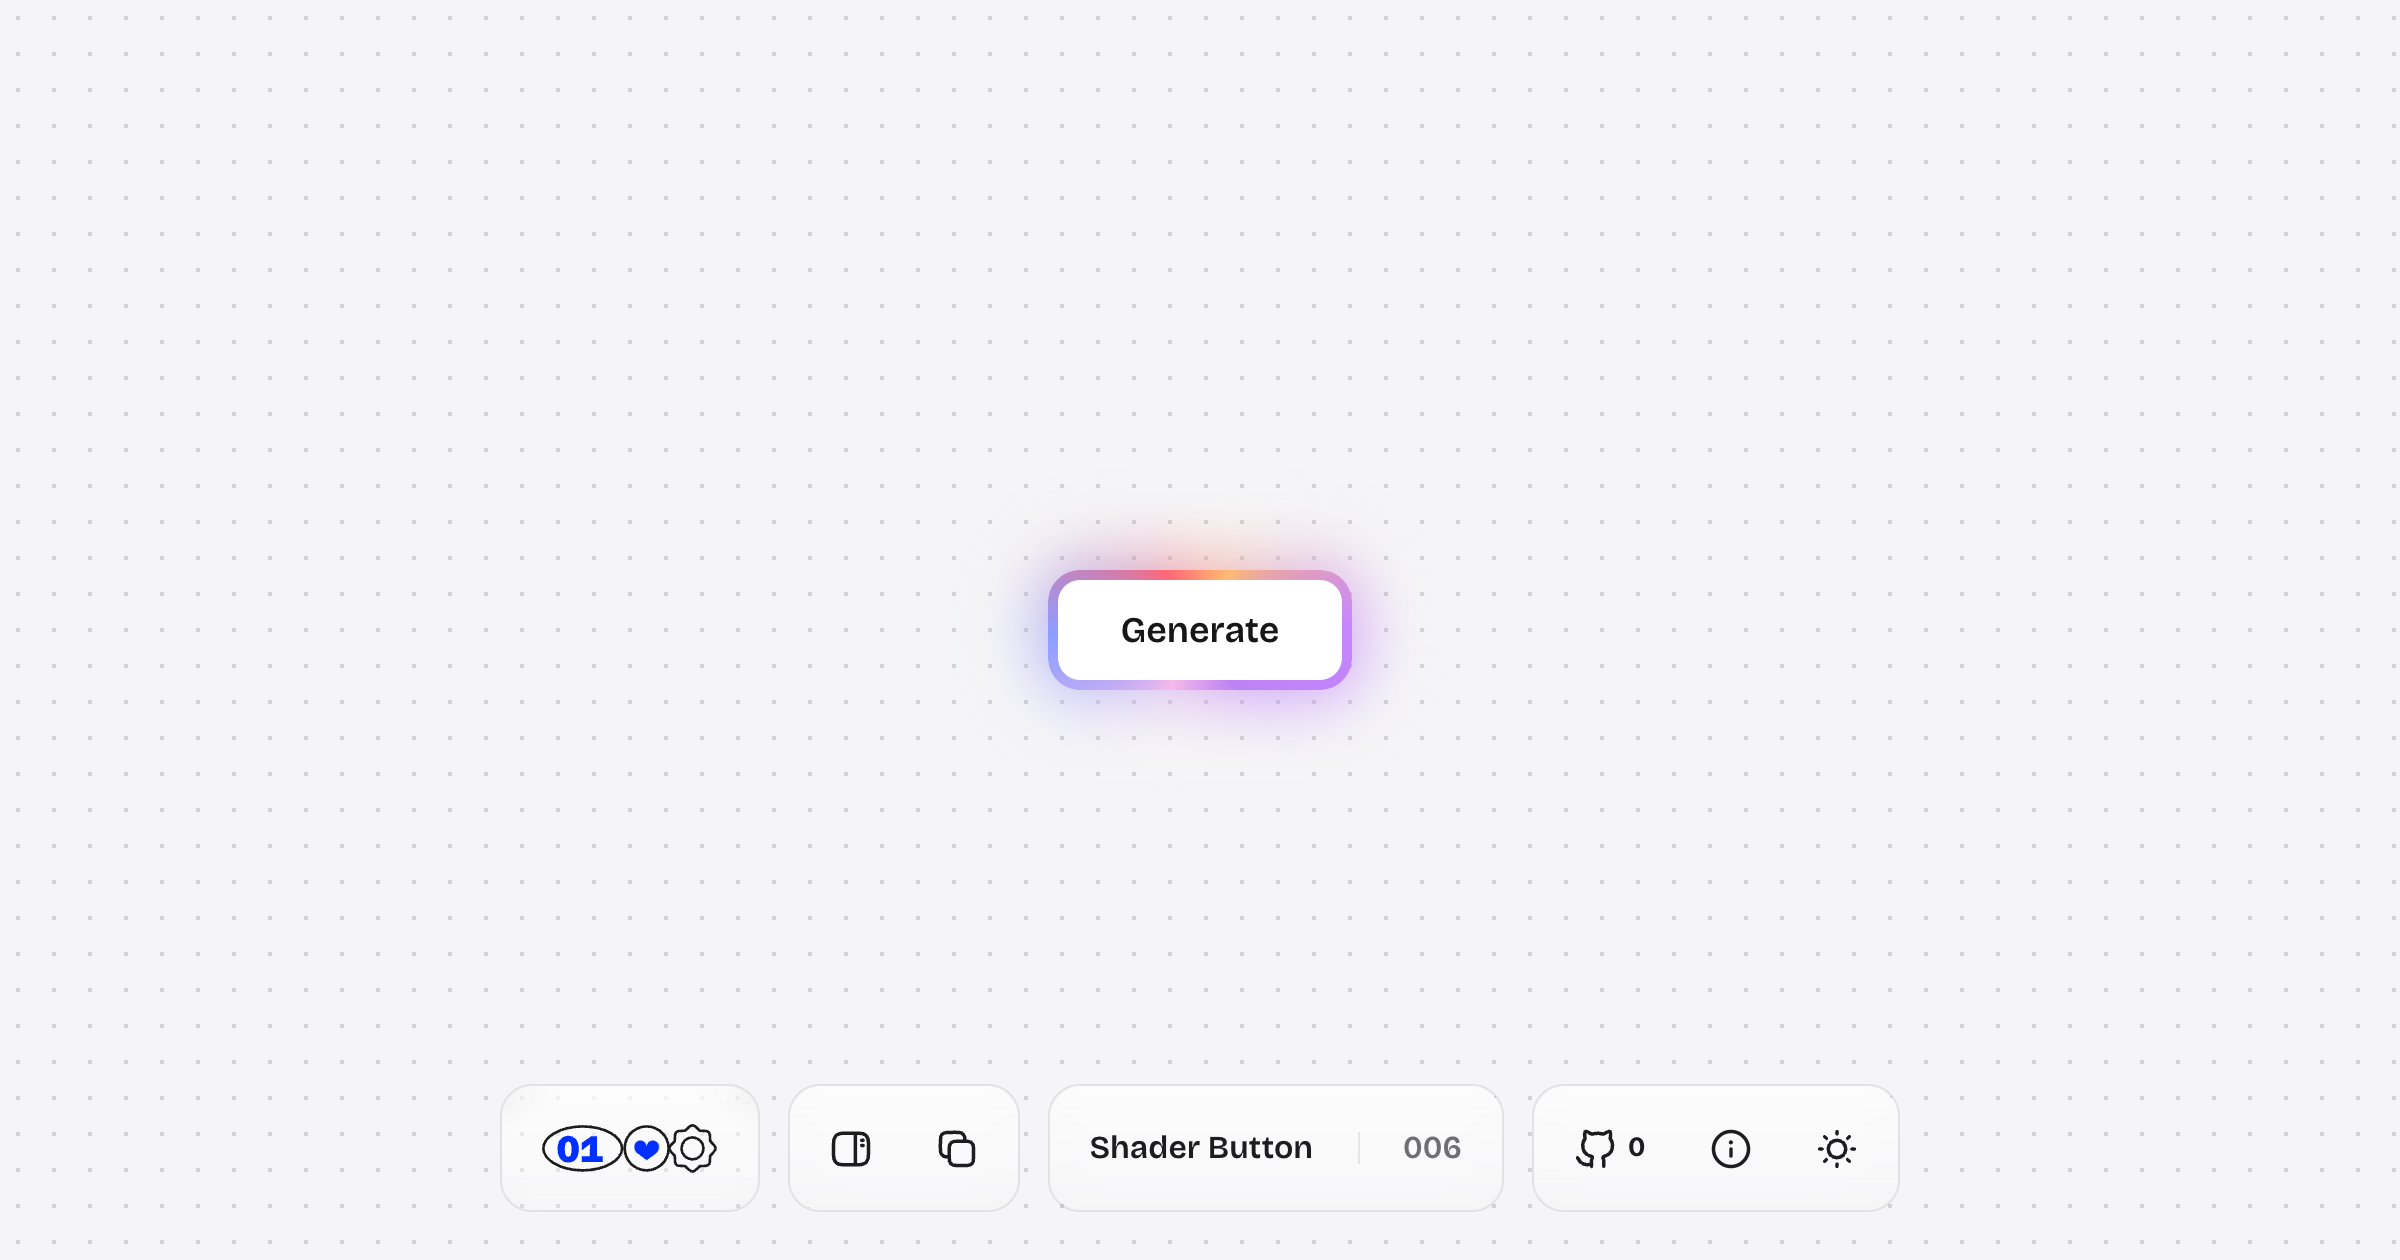
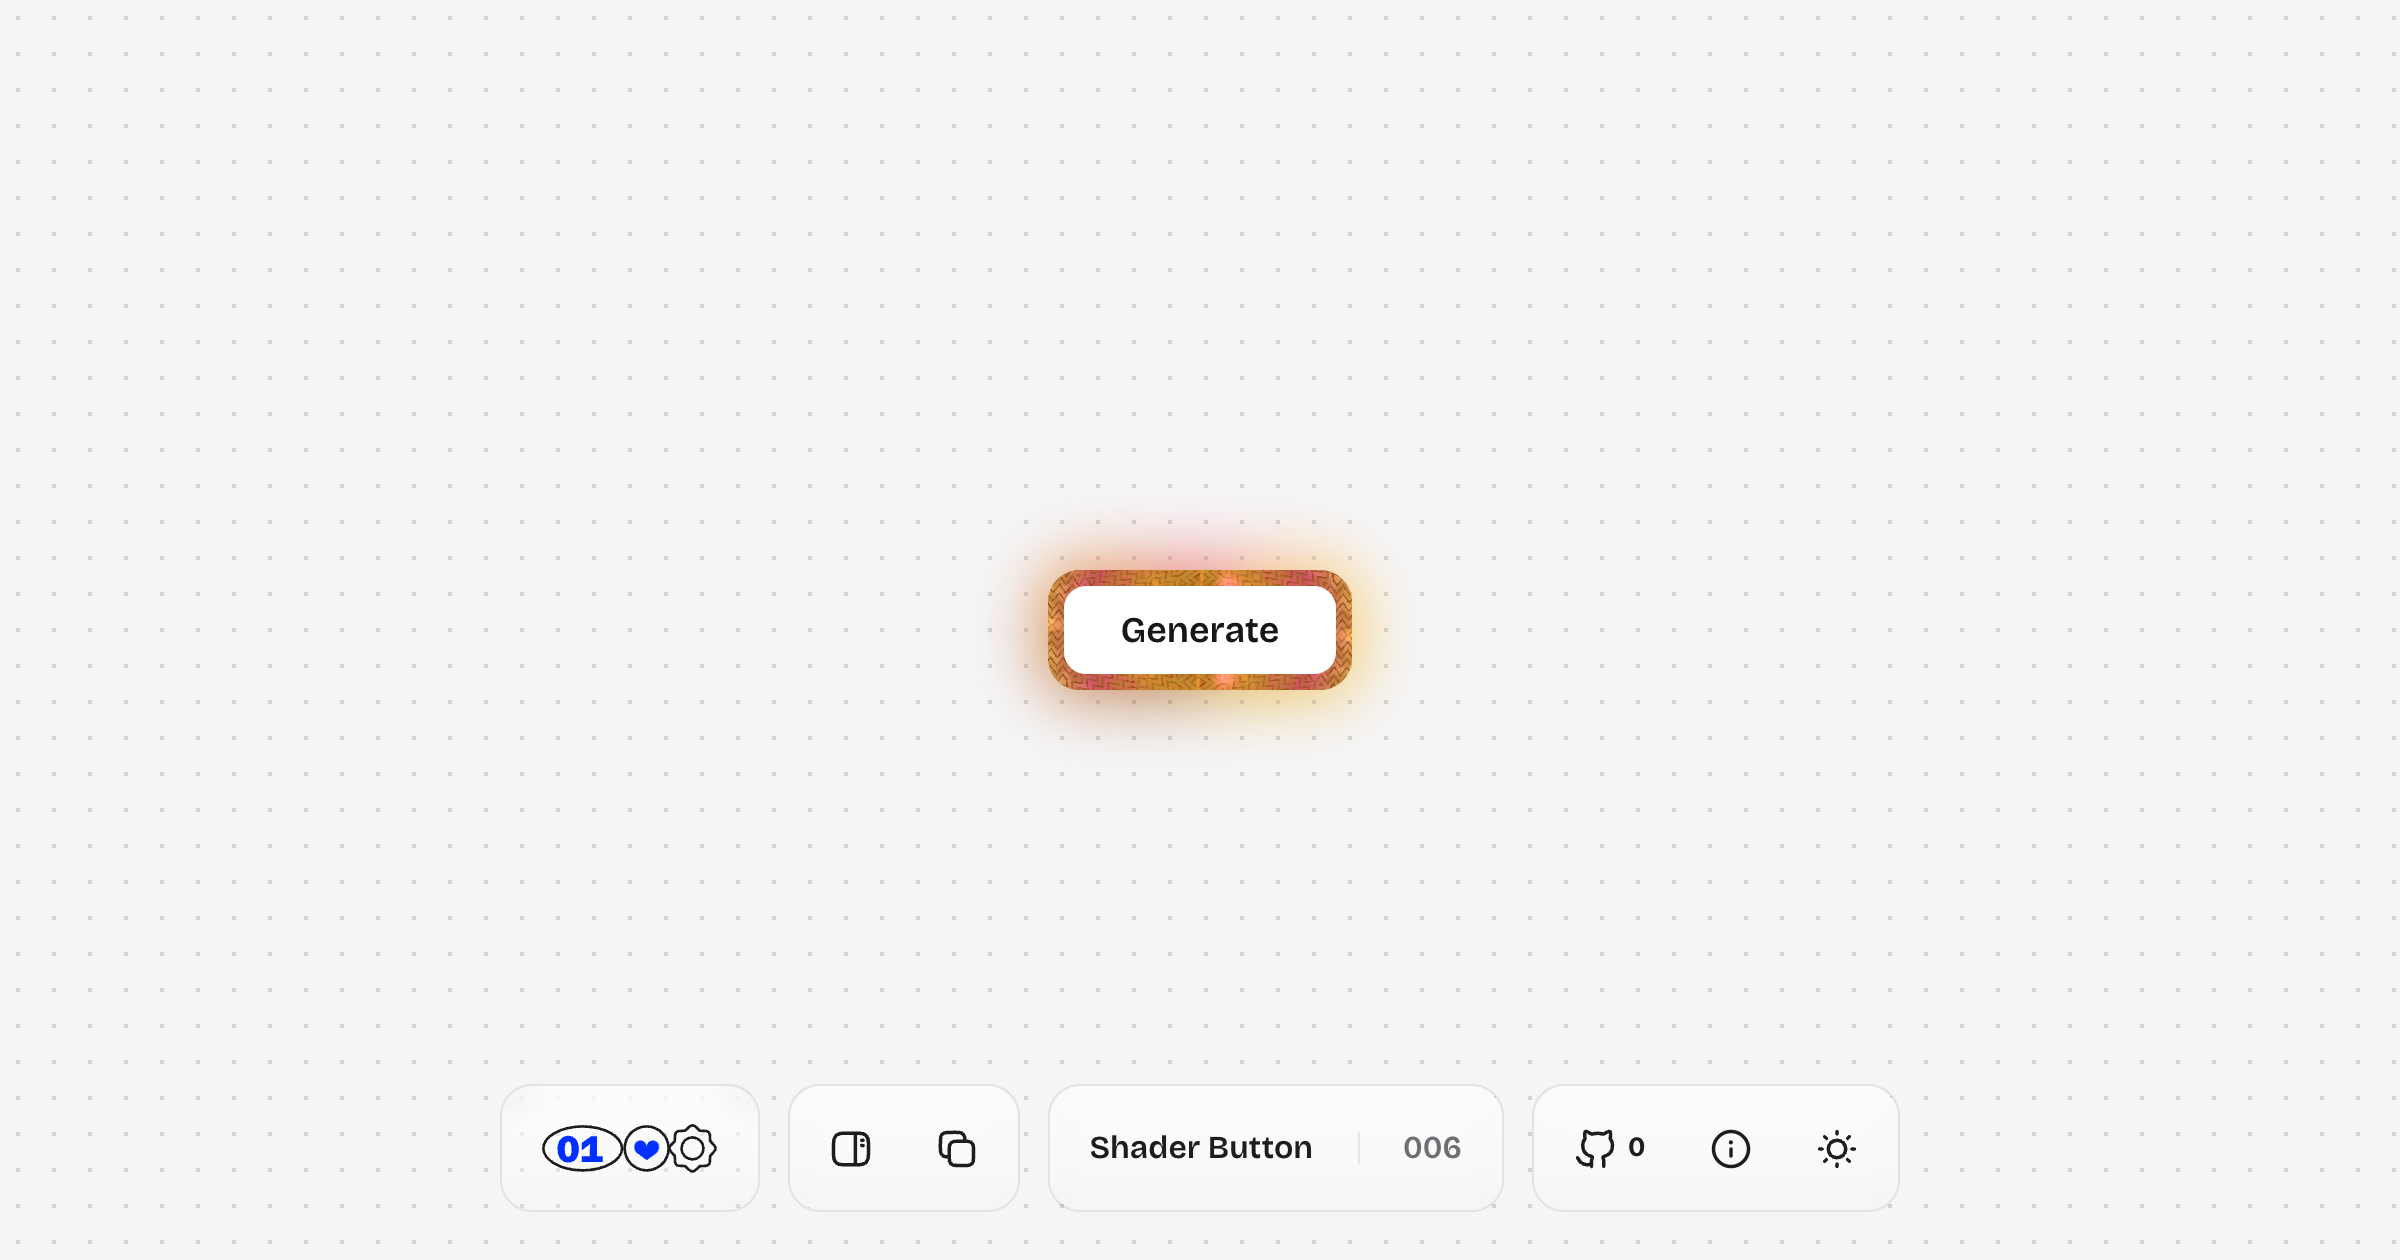
Shader Button v2: the border band is a live WebGL kaleidoscope shader (hover accelerates flow), CSS conic stays as fallback

Changed region(s): [[0.4062, 0.4333, 0.5938, 0.5881]]

diff --git a/src/interactions/shader-button.tsx b/src/interactions/shader-button.tsx
@@ -2,9 +2,11 @@
 
 /**
  * 1IAD Day 6 — Shader Button
- * A button wrapped in a thick, flowing gradient border: the band rotates
- * slowly, blooms a soft halo behind the button, brightens on hover, and
- * compresses on press. v1 is pure CSS; a real shader border comes next.
+ * A button whose thick border is a live WebGL fragment shader: kaleidoscopic
+ * textile patterns (chevrons, diamonds, stripes, triangles) morph and flow
+ * around the band in warm gold, copper, and hot pink. Hovering accelerates
+ * the flow and blooms the halo; pressing compresses the button.
+ * Falls back to a CSS conic gradient when WebGL is unavailable.
  *
  * Self-contained: React + Tailwind only, no animation library.
  * https://x.com/sunnyxdesign — built in public, one interaction a day.
@@ -12,9 +14,9 @@
 
 import * as React from "react";
 
-// the Apple Intelligence palette, looped so the conic seam is invisible
+// halo + fallback ring share the shader's palette
 const COLORS =
-  "#bc82f3, #f5b9ea, #8d9fff, #ff6778, #ffba71, #c686ff, #bc82f3";
+  "#d9a626, #99521a, #e6802e, #eb4073, #ffc74d, #d9a626";
 
 const CSS = `
 @property --sb-angle {
@@ -27,7 +29,7 @@ const CSS = `
 .sb-paint {
   background: conic-gradient(from var(--sb-angle), ${COLORS});
 }
-/* the border band: gradient masked to a ring of --t thickness */
+/* the border band: contents masked to a ring of --t thickness */
 .sb-ring {
   padding: var(--t);
   -webkit-mask: linear-gradient(#000 0 0) content-box, linear-gradient(#000 0 0);
@@ -40,37 +42,281 @@ const CSS = `
 }
 `;
 
+/* --- the kaleidoscope band shader (adapted from a fullscreen mandala:
+       center glow, rings, and edge fade removed — a border band only
+       ever samples the outer field) --- */
+const VERT = `
+attribute vec2 a_pos;
+void main() { gl_Position = vec4(a_pos, 0.0, 1.0); }
+`;
+
+const FRAG = `
+precision highp float;
+uniform float u_time;
+uniform vec2 u_res;
+uniform float u_symmetry;
+uniform float u_speed;
+
+#define PI 3.14159265359
+#define TAU 6.28318530718
+
+mat2 rot(float a) {
+  float c = cos(a), s = sin(a);
+  return mat2(c, -s, s, c);
+}
+float hash(vec2 p) {
+  return fract(sin(dot(p, vec2(127.1, 311.7))) * 43758.5453);
+}
+float noise(vec2 p) {
+  vec2 i = floor(p);
+  vec2 f = fract(p);
+  f = f * f * (3.0 - 2.0 * f);
+  float a = hash(i);
+  float b = hash(i + vec2(1.0, 0.0));
+  float c = hash(i + vec2(0.0, 1.0));
+  float d = hash(i + vec2(1.0, 1.0));
+  return mix(mix(a, b, f.x), mix(c, d, f.x), f.y);
+}
+vec2 kaleidoscope(vec2 uv, float segments) {
+  float angle = atan(uv.y, uv.x);
+  float r = length(uv);
+  float segAngle = TAU / segments;
+  angle = mod(angle, segAngle);
+  angle = abs(angle - segAngle * 0.5);
+  return vec2(cos(angle), sin(angle)) * r;
+}
+float stripePattern(vec2 p, float t) {
+  float s1 = step(0.5, fract(p.x * 3.0 + t * 0.3));
+  float s2 = step(0.5, fract(p.y * 4.0 - t * 0.2));
+  return s1 * 0.5 + s2 * 0.5;
+}
+float chevronPattern(vec2 p, float t) {
+  float y = p.y + t * 0.15;
+  float chevron = abs(fract(p.x * 2.0) - 0.5) * 2.0;
+  chevron = abs(fract(chevron + y * 3.0) - 0.5) * 2.0;
+  return smoothstep(0.3, 0.35, chevron);
+}
+float diamondPattern(vec2 p, float t) {
+  vec2 q = rot(PI * 0.25) * p;
+  float d = abs(fract(q.x * 2.5 + t * 0.1) - 0.5) + abs(fract(q.y * 2.5 - t * 0.08) - 0.5);
+  return smoothstep(0.4, 0.42, d);
+}
+float trianglePattern(vec2 p, float t) {
+  vec2 q = p * 3.0;
+  q.x += floor(q.y) * 0.5;
+  vec2 f = fract(q) - 0.5;
+  float tri = abs(f.x) + abs(f.y);
+  float anim = sin(t * 0.4 + floor(q.x) * 1.3 + floor(q.y) * 0.7) * 0.15;
+  return smoothstep(0.45 + anim, 0.47 + anim, tri);
+}
+vec3 palette(float t, float patIdx) {
+  vec3 c0 = vec3(0.85, 0.65, 0.15);
+  vec3 c1 = vec3(0.60, 0.30, 0.08);
+  vec3 c2 = vec3(0.90, 0.50, 0.18);
+  vec3 c3 = vec3(0.92, 0.25, 0.45);
+  vec3 c4 = vec3(1.00, 0.78, 0.30);
+  float phase = fract(t + patIdx * 0.2);
+  vec3 col;
+  if (phase < 0.2) col = mix(c0, c1, phase / 0.2);
+  else if (phase < 0.4) col = mix(c1, c2, (phase - 0.2) / 0.2);
+  else if (phase < 0.6) col = mix(c2, c3, (phase - 0.4) / 0.2);
+  else if (phase < 0.8) col = mix(c3, c4, (phase - 0.6) / 0.2);
+  else col = mix(c4, c0, (phase - 0.8) / 0.2);
+  return col;
+}
+
+void main() {
+  vec2 uv = (gl_FragCoord.xy - u_res * 0.5) / u_res.y;
+  float t = u_time * u_speed;
+  float segments = u_symmetry;
+
+  uv = rot(t * 0.12) * uv;
+  float r = length(uv);
+
+  vec2 kuv = kaleidoscope(uv, segments);
+  kuv *= 3.5 * (1.0 + sin(t * 0.35) * 0.15);
+  kuv += vec2(t * 0.05, t * 0.03);
+
+  float chev = chevronPattern(kuv * 1.2, t);
+  float diam = diamondPattern(kuv * 0.8 + vec2(t * 0.02), t * 1.2);
+  vec2 stripeUV = rot(t * 0.08) * kuv;
+  float stripe = stripePattern(stripeUV * 1.5, t);
+  float tri = trianglePattern(kuv * 0.9 + vec2(sin(t * 0.2) * 0.3), t);
+
+  float morphPhase = fract(t * 0.06);
+  float m0 = smoothstep(0.0, 0.1, morphPhase) * smoothstep(0.35, 0.25, morphPhase);
+  float m1 = smoothstep(0.2, 0.3, morphPhase) * smoothstep(0.55, 0.45, morphPhase);
+  float m2 = smoothstep(0.4, 0.5, morphPhase) * smoothstep(0.75, 0.65, morphPhase);
+  float m3 = smoothstep(0.6, 0.7, morphPhase) * smoothstep(0.95, 0.85, morphPhase);
+  float mSum = m0 + m1 + m2 + m3;
+  if (mSum < 0.3) {
+    m0 = max(m0, 0.3);
+    m1 = max(m1, 0.2);
+  }
+  float pattern = chev * m0 + diam * m1 + stripe * m2 + tri * m3;
+  float basePat = diamondPattern(kuv * 1.1, t * 0.7) * 0.35;
+  pattern = max(pattern, basePat);
+
+  vec2 kuv2 = kaleidoscope(uv * 1.3, segments + 2.0);
+  kuv2 *= 1.0 + sin(t * 0.25) * 0.1;
+  kuv2 += vec2(t * 0.03, -t * 0.04);
+  float innerPattern = chevronPattern(kuv2, t * 0.8) * 0.4;
+  innerPattern += trianglePattern(kuv2 * 1.2, t * 0.6) * 0.3;
+
+  float colorPhase = t * 0.04 + r * 0.5;
+  vec3 col1 = palette(colorPhase, 0.0);
+  vec3 col2 = palette(colorPhase + 0.3, 1.0);
+  vec3 col3 = palette(colorPhase + 0.6, 2.0);
+
+  vec3 col = vec3(0.45, 0.22, 0.07) + col1 * 0.25;
+  col = mix(col, col1 * 1.25, pattern * 0.9);
+  col = mix(col, col2, innerPattern * 0.5);
+
+  float foldAngle = atan(uv.y, uv.x);
+  float foldDist = abs(sin(foldAngle * segments * 0.5));
+  float foldLine = smoothstep(0.02, 0.0, 1.0 - foldDist) * 0.6;
+  foldLine *= 0.5 + 0.5 * sin(t * 0.5 + r * 4.0);
+  col += col3 * foldLine;
+
+  float pinkFlash = sin(t * 0.7 + r * 6.0) * cos(foldAngle * 3.0 + t * 0.4);
+  pinkFlash = pow(max(pinkFlash, 0.0), 6.0) * 0.8;
+  col += vec3(0.95, 0.2, 0.5) * pinkFlash;
+
+  float tex = noise(gl_FragCoord.xy * 0.5) * 0.04 - 0.02;
+  col += tex;
+
+  col = col / (1.0 + col * 0.3);
+  col = pow(max(col, vec3(0.0)), vec3(0.92, 0.96, 1.06));
+
+  gl_FragColor = vec4(col, 1.0);
+}
+`;
+
 export function ShaderButton({
   children = "Generate",
-  thickness = 5,
+  thickness = 8,
+  symmetry = 8,
   onClick,
 }: {
   children?: React.ReactNode;
   thickness?: number;
+  symmetry?: number;
   onClick?: () => void;
 }) {
+  const canvasRef = React.useRef<HTMLCanvasElement>(null);
+  // hover accelerates the flow; the loop lerps toward this target
+  const speedTarget = React.useRef(0.5);
+
+  React.useEffect(() => {
+    const canvas = canvasRef.current!;
+    const gl = canvas.getContext("webgl", { antialias: false });
+    if (!gl) return; // CSS conic fallback stays visible underneath
+
+    const compile = (type: number, src: string) => {
+      const s = gl.createShader(type)!;
+      gl.shaderSource(s, src);
+      gl.compileShader(s);
+      if (!gl.getShaderParameter(s, gl.COMPILE_STATUS)) {
+        console.error("ShaderButton compile:", gl.getShaderInfoLog(s));
+      }
+      return s;
+    };
+    const prog = gl.createProgram()!;
+    gl.attachShader(prog, compile(gl.VERTEX_SHADER, VERT));
+    gl.attachShader(prog, compile(gl.FRAGMENT_SHADER, FRAG));
+    gl.linkProgram(prog);
+    if (!gl.getProgramParameter(prog, gl.LINK_STATUS)) {
+      console.error("ShaderButton link:", gl.getProgramInfoLog(prog));
+      return;
+    }
+    gl.useProgram(prog);
+
+    const buf = gl.createBuffer();
+    gl.bindBuffer(gl.ARRAY_BUFFER, buf);
+    gl.bufferData(
+      gl.ARRAY_BUFFER,
+      new Float32Array([-1, -1, 3, -1, -1, 3]),
+      gl.STATIC_DRAW,
+    );
+    const aPos = gl.getAttribLocation(prog, "a_pos");
+    gl.enableVertexAttribArray(aPos);
+    gl.vertexAttribPointer(aPos, 2, gl.FLOAT, false, 0, 0);
+
+    const uTime = gl.getUniformLocation(prog, "u_time");
+    const uRes = gl.getUniformLocation(prog, "u_res");
+    const uSymmetry = gl.getUniformLocation(prog, "u_symmetry");
+    const uSpeed = gl.getUniformLocation(prog, "u_speed");
+
+    const dpr = Math.min(devicePixelRatio || 1, 2);
+    const resize = () => {
+      const w = Math.round(canvas.clientWidth * dpr);
+      const h = Math.round(canvas.clientHeight * dpr);
+      if (canvas.width !== w || canvas.height !== h) {
+        canvas.width = w;
+        canvas.height = h;
+        gl.viewport(0, 0, w, h);
+      }
+    };
+    resize();
+    const ro = new ResizeObserver(resize);
+    ro.observe(canvas);
+
+    const reduced = matchMedia("(prefers-reduced-motion: reduce)").matches;
+    let speed = 0.5;
+    let raf = 0;
+    const render = (now: number) => {
+      speed += (speedTarget.current - speed) * 0.06;
+      // every frame, not just on resize: a remount reuses the context but
+      // compiles a fresh program whose u_res would otherwise stay (0,0)
+      gl.uniform2f(uRes, canvas.width, canvas.height);
+      gl.uniform1f(uTime, reduced ? 40 : now * 0.001); // frozen but composed
+      gl.uniform1f(uSymmetry, symmetry);
+      gl.uniform1f(uSpeed, speed);
+      gl.drawArrays(gl.TRIANGLES, 0, 3);
+      raf = requestAnimationFrame(render);
+    };
+    raf = requestAnimationFrame(render);
+
+    // no loseContext() here: React's dev double-mount would get the same,
+    // permanently dead context back from getContext on the second pass
+    return () => {
+      cancelAnimationFrame(raf);
+      ro.disconnect();
+    };
+  }, [symmetry]);
+
   return (
     <button
       onClick={onClick}
-      className="sb-root group relative select-none rounded-2xl px-9 py-4 text-lg font-semibold text-neutral-900 outline-none transition-transform duration-150 focus-visible:ring-2 focus-visible:ring-[#8d9fff] focus-visible:ring-offset-4 active:scale-[0.96] dark:text-neutral-50"
+      onPointerEnter={() => (speedTarget.current = 1.6)}
+      onPointerLeave={() => (speedTarget.current = 0.5)}
+      className="sb-root group relative select-none rounded-2xl px-9 py-4 text-lg font-semibold text-neutral-900 outline-none transition-transform duration-150 focus-visible:ring-2 focus-visible:ring-[#e6802e] focus-visible:ring-offset-4 active:scale-[0.96] dark:text-neutral-50"
       style={{ "--t": `${thickness}px` } as React.CSSProperties}
     >
       <style>{CSS}</style>
-      {/* soft halo behind the button; breathes brighter on hover */}
+      {/* soft halo behind the button; blooms on hover */}
       <span
         aria-hidden="true"
         className="sb-paint absolute -inset-1 rounded-[20px] opacity-40 blur-lg transition-opacity duration-300 group-hover:opacity-75"
+      />
+      {/* CSS conic band — visible only if WebGL is unavailable */}
+      <span
+        aria-hidden="true"
+        className="sb-paint sb-ring absolute inset-0 rounded-[inherit]"
+      />
+      {/* the shader: fills the button; the solid face occludes the middle,
+          so only the border band shows. (A CSS ring mask on the canvas is
+          unreliable — Chromium mask-composite vs. composited layers.) */}
+      <canvas
+        ref={canvasRef}
+        aria-hidden="true"
+        className="absolute inset-0 h-full w-full overflow-hidden rounded-[inherit]"
       />
       {/* button face */}
       <span
         aria-hidden="true"
         className="absolute rounded-[11px] bg-white dark:bg-neutral-900"
         style={{ inset: thickness }}
-      />
-      {/* the flowing border band */}
-      <span
-        aria-hidden="true"
-        className="sb-paint sb-ring absolute inset-0 rounded-[inherit]"
       />
       <span className="relative">{children}</span>
     </button>

diff --git a/src/interactions/meta.ts b/src/interactions/meta.ts
@@ -80,7 +80,7 @@ export const interactionsMeta: InteractionMeta[] = [
     date: "2026-08-24",
     title: "Shader Button",
     description:
-      "A button wrapped in a thick, flowing gradient border: the band rotates slowly, blooms a soft halo behind the button, brightens on hover, and compresses on press.",
+      "A button whose thick border is a live WebGL fragment shader: kaleidoscopic textile patterns morph and flow around the band in warm gold, copper, and hot pink. Hovering accelerates the flow and blooms the halo; pressing compresses the button. Falls back to a CSS gradient without WebGL.",
     hint: "Hover it. Press it.",
     dependencies: [],
     file: "shader-button.tsx",
